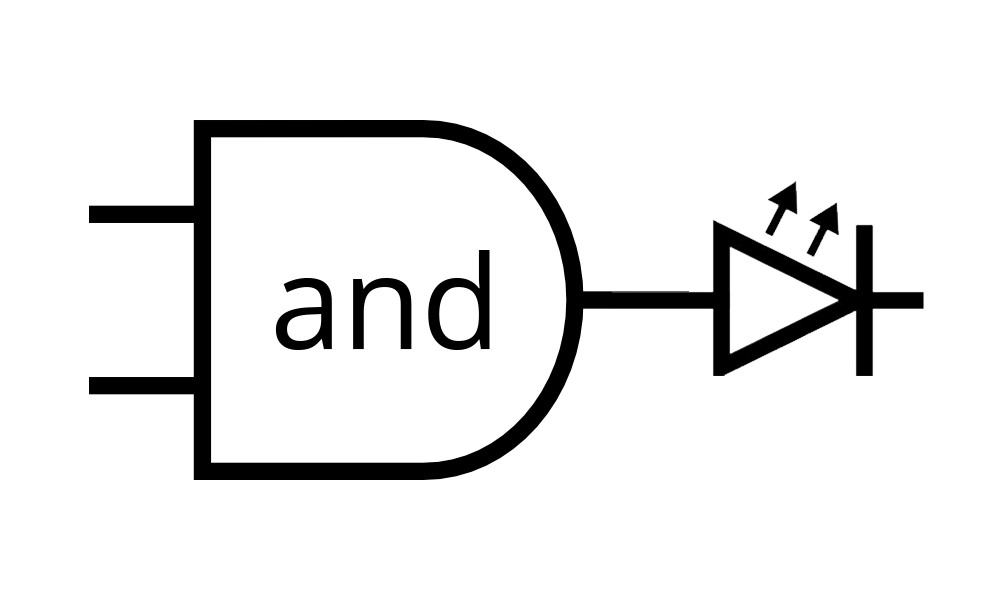
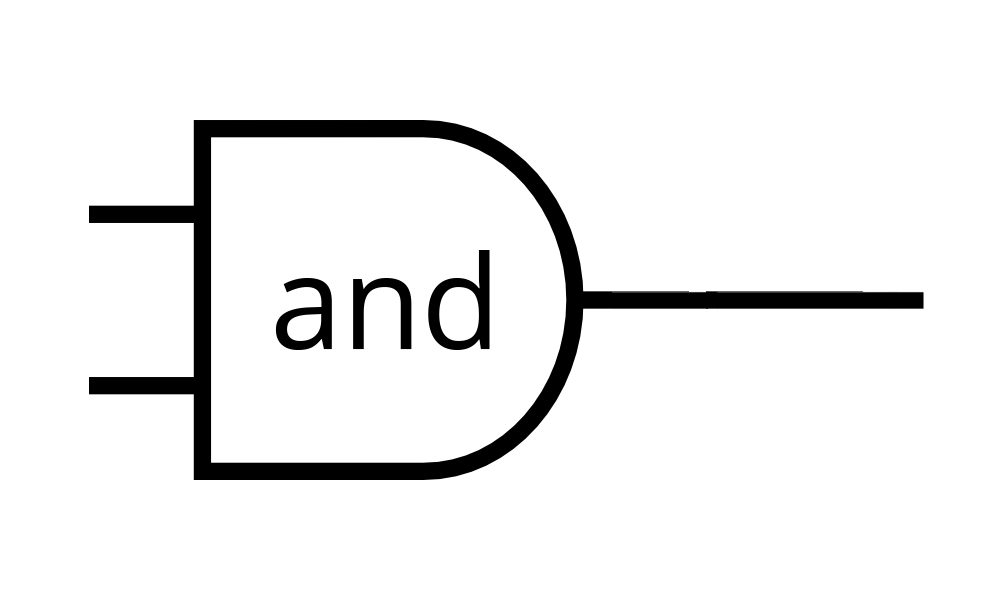
Realese atualizada para atender especificações do cliente e houve correção de bugs

Changed region(s): [[0.713, 0.3, 0.899, 0.63]]

diff --git a/src/main/java/br/pro/hashi/ensino/desagil/lucianogic/view/GatesView.java b/src/main/java/br/pro/hashi/ensino/desagil/lucianogic/view/GatesView.java
@@ -78,7 +78,7 @@ public class GatesView extends FixedPanel implements ItemListener, ActionListene
 		button = new JButton();
 		button.setOpaque(true);
 		button.addActionListener(this);
-		add(button, 438, 160, 40, 40);
+		add(button, 500, 160, 40, 40);
 
 		add(inputBoxA,40,118, 20, 20);
 		add(inputBoxB,40,220, 20, 20);
@@ -98,7 +98,7 @@ public class GatesView extends FixedPanel implements ItemListener, ActionListene
 			remove(inputBoxC);
 		}
 		
-		add(button,438, 160, 40, 40);
+		add(button,500, 160, 40, 40);
 		
 		if(gate.read() == false){
 			button.setEnabled(false);
@@ -114,10 +114,12 @@ public class GatesView extends FixedPanel implements ItemListener, ActionListene
 		Object source = e.getItemSelectable();
 		if(source == inputBoxA){
 			buttonA.setOn(inputBoxA.isSelected());
+			button.setEnabled(false);
 		}
 		
 		if(source == inputBoxB){
 			buttonB.setOn(inputBoxB.isSelected());
+			
 		}
 		
 		if(source == inputBoxC){
@@ -126,6 +128,7 @@ public class GatesView extends FixedPanel implements ItemListener, ActionListene
 		
 		if(gate.read() == false){
 			button.setEnabled(false);
+			button.setBackground(null);
 		}
 		
 		if(gate.read() == true){
@@ -139,6 +142,9 @@ public class GatesView extends FixedPanel implements ItemListener, ActionListene
 		Color color = JColorChooser.showDialog(this, null, null);
 		if(color != null) {
 			button.setBackground(color);
+		if(gate.read() == false){
+			button.setEnabled(false);			
+			}
 		}
 	}
 	
@@ -152,6 +158,7 @@ public class GatesView extends FixedPanel implements ItemListener, ActionListene
 	@Override
 	public void paintComponent(Graphics g) {
 		g.drawImage(image, 0, 0, 600, 360, null);
+		//g.fillRoundRect(500, 160, 40, 40, 50, 25);
 
 		// Evita bugs visuais em alguns sistemas operacionais.
 		getToolkit().sync();
